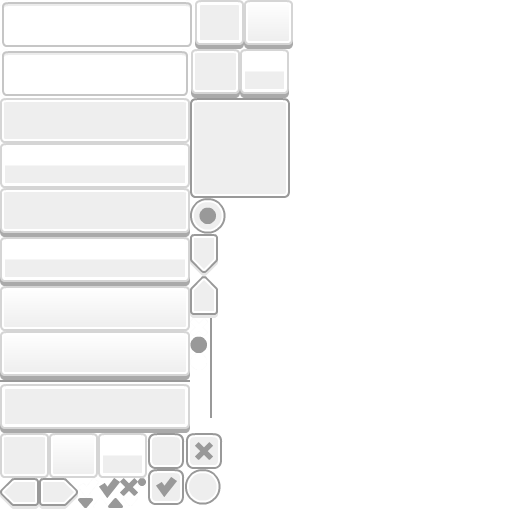
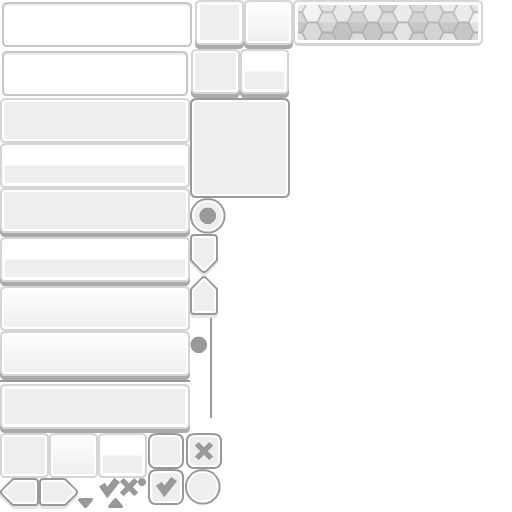
Add background to start battle button, fixes #60

Changed region(s): [[0.5625, 0.0, 0.9688, 0.0938]]

diff --git a/src/states/StartMenu.js b/src/states/StartMenu.js
@@ -16,10 +16,10 @@ export default class extends Phaser.State {
             asset: 'greySheet',
             callback: this.restartGame,
             callbackContext: this,
-            overFrame: 'button0',
-            outFrame: 'button0',
-            downFrame: 'button0',
-            upFrame: 'button0',
+            overFrame: 'hexButton',
+            outFrame: 'hexButton',
+            downFrame: 'hexButton',
+            upFrame: 'hexButton',
             tint: Phaser.Color.VIOLET,
             label: 'Cure Virus',
             style: {
